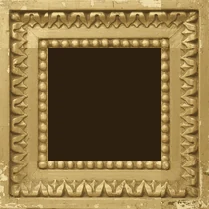
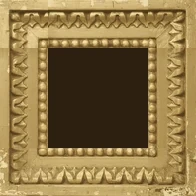
Rama: bezszwowy kafel krawedzi (okres ornamentu 20px, przenikanie)

diff --git a/src/index.html b/src/index.html
@@ -102,7 +102,7 @@ h2{color:var(--green)}
 .card.media picture img{border-radius:2px}
 .why h3{color:var(--green)}
 @media(max-width:820px){.why{gap:1rem}.why div{padding:1.5rem}}.why div{border:1px solid #b8964f;box-shadow:inset 0 0 0 4px #fbf8f3,inset 0 0 0 5px #d8c08a;background:#fbf8f3;border-radius:2px;padding:1.75rem}.why h3{color:var(--green)}
-/* rama muzealna (Rijksmuseum CC0) */.card,.why div,.steps li{border:22px solid transparent!important;border-image:url(img/rama.webp) 48 round!important;background-clip:padding-box!important;box-shadow:0 6px 18px rgba(58,40,30,.12)!important;border-radius:0!important}
+/* rama muzealna (Rijksmuseum CC0) */.card,.why div,.steps li{border:22px solid transparent!important;border-image:url(img/rama.webp?v=2) 48 round!important;background-clip:padding-box!important;box-shadow:0 6px 18px rgba(58,40,30,.12)!important;border-radius:0!important}
 @media(max-width:820px){.card,.why div,.steps li{border-width:16px!important}}
 .card::before,.card::after,.why div::before,.why div::after{display:none!important}
 .card.media{padding-top:0}
@@ -123,10 +123,10 @@ header{border-bottom:1px solid var(--gold)}
 .btn:hover{background:#163a2b;box-shadow:inset 0 0 0 3px #163a2b,inset 0 0 0 4px var(--gold)}
 .btn.ghost{background:transparent;color:var(--ink);border:1px solid var(--gold);box-shadow:none}.btn.ghost:hover{background:#fffaf8}
 .hero-img::after{display:none}
-.hero-img picture{display:block;border:22px solid transparent;border-image:url(img/rama.webp) 48 round;box-shadow:0 6px 18px rgba(58,40,30,.12)}
+.hero-img picture{display:block;border:22px solid transparent;border-image:url(img/rama.webp?v=2) 48 round;box-shadow:0 6px 18px rgba(58,40,30,.12)}
 .hero-img img{border-radius:0!important;display:block}
 .hero p{color:var(--ink)}.badge{border-left:3px solid var(--gold)}
-.price{border:22px solid transparent;border-image:url(img/rama.webp) 48 round;background:#fffaf8;background-clip:padding-box;border-radius:0;box-shadow:0 6px 18px rgba(58,40,30,.12);border-collapse:separate;border-spacing:0}
+.price{border:22px solid transparent;border-image:url(img/rama.webp?v=2) 48 round;background:#fffaf8;background-clip:padding-box;border-radius:0;box-shadow:0 6px 18px rgba(58,40,30,.12);border-collapse:separate;border-spacing:0}
 .price td{padding:1.05rem 1.5rem;border-bottom:1px dotted var(--gold)}.price tr:last-child td{border-bottom:0}
 .price td:last-child{font-family:"Cormorant Garamond",Georgia,serif;font-size:1.3rem;font-weight:600}
 .price tr.hl{background:#f6ecd6}
